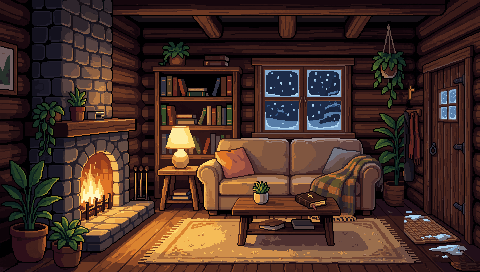
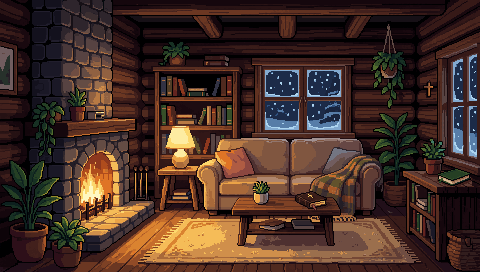
Entrance hall with the front door and a leaving cutscene; living room back to its original window and shelf (Bible on the table, green book on the shelf); bedroom wardrobe and plants instead of a door; Mochi stays off Waffles
Claude-Session: https://claude.ai/code/session_01MJHAbDc8GE5C3zMaFTW5Js

Changed region(s): [[0.8438, 0.1471, 1.0, 0.9706]]

diff --git a/src/scenes/cabin.js b/src/scenes/cabin.js
@@ -2,9 +2,7 @@
 'use strict';
 
 (function () {
-  const WINDOWS = [{ x: 265, y: 66, w: 78, h: 64 }, { x: 441, y: 89, w: 15, h: 30 }]; // big window + the pane in the front door
-  // the front door in the right wall: you come in (and go out) through it
-  const DOOR = { x: 430, y: 64, w: 41, h: 168, hinge: 471 };
+  const WINDOWS = [{ x: 265, y: 66, w: 78, h: 64 }, { x: 443, y: 58, w: 34, h: 104 }]; // big window + the tall side window
   const POS = {
     dog: { x: 120, y: 254 },  // Waffles on the rug in front of the fire
     cat: { x: 292, y: 134 },  // Mochi on the windowsill, watching the snow
@@ -13,9 +11,10 @@
   };
   // where Mochi can be in the living room, and the jumps between those spots
   // (cat spots, not the middle of the couch: the armrests, the corner of the couch back, the sill)
-  const CAT_SURF = { sill: [262, 336, 134], armL: [203, 209, 164], armR: [365, 371, 167], couchBack: [222, 232, 142], coffee: [318, 326, 200], shelf: [198, 234, 68], mat: [404, 428, 240], rug: [200, 300, 256] };
-  const CAT_LINKS = [['rug', 'armL'], ['armL', 'couchBack'], ['couchBack', 'sill'], ['couchBack', 'shelf'], ['rug', 'armR'], ['armR', 'sill'], ['rug', 'coffee'], ['rug', 'mat']];
+  const CAT_SURF = { sill: [262, 336, 134], armL: [203, 209, 164], armR: [365, 371, 167], couchBack: [222, 232, 142], coffee: [318, 326, 200], shelf: [198, 234, 68], shelfR: [416, 432, 172], rug: [212, 300, 256] }; // the rug starts past Waffles (120–184)
+  const CAT_LINKS = [['rug', 'armL'], ['armL', 'couchBack'], ['couchBack', 'sill'], ['couchBack', 'shelf'], ['rug', 'armR'], ['armR', 'sill'], ['rug', 'coffee'], ['armR', 'shelfR']];
   let mochi = null;
+  const dir = { t: 0, dur: 0 }; // (kept for the petting callbacks)
   let mode = 'room', sip = 0, sips = 0, drink = 'cocoa', steam = [], idleHint = 0;
 
   function bottomOf(anim, x, y) { const s = SE.animSize(anim); return { x: Math.round(x), y: Math.round(y - s.h), w: s.w, h: s.h }; }
@@ -86,85 +85,8 @@
     else SE.toast(auto ? 'A fresh log on the fire. Crackle, pop.' : 'The fire crackles happily.', '#ffe6b8');
     return true;
   }
-  function goOutside() {
-    if (SE.weather.stormy()) { SE.toast('Too stormy to go out. The fire and Mochi are right here.', '#cfe6ff'); return; }
-    if (doorT > 0) return;
-    SE.audio.sfx('door'); SE.audio.sfx('gust');
-    doorT = 1.5; doorOut = true;
-    setTimeout(() => { if (SE.sceneName === 'cabin') SE.go('yard'); }, 650);
-  }
-
-  // The door swings in on its hinge: cold daylight (or night) in the gap, a gust of snow across the mat.
-  let doorT = 0, doorOut = false;
-  const gust = [];
-  function drawDoor(ctx, dt) {
-    if (doorT <= 0) return;
-    doorT -= dt;
-    const k = doorT / 1.5;
-    const open = Math.sin(Math.min(1, (1 - k) * 2.2) * Math.PI / 2) * (doorOut ? 1 : Math.min(1, k * 2.2));
-    if (open < 0.02) return;
-    const n = SE.weather.night(), ang = open * Math.PI * 0.45;
-    // the leaf turns in on its hinge (right edge): seen ever more edge-on, its free edge nearer to us
-    const leafW = Math.max(4, Math.round(DOOR.w * Math.cos(ang) + 9 * Math.sin(ang)));
-    const gapR = DOOR.hinge - leafW;
-    if (gapR > DOOR.x) {
-      // through the gap: snowy yard, dark pines, falling snow (blue-black at night)
-      const gw = gapR - DOOR.x, gy = DOOR.y + DOOR.h * 0.62;
-      const sky = ctx.createLinearGradient(0, DOOR.y, 0, gy);
-      sky.addColorStop(0, n > 0.5 ? '#0e1230' : '#9fb0d6'); sky.addColorStop(1, n > 0.5 ? '#26305e' : '#dfe6f4');
-      ctx.fillStyle = sky; ctx.fillRect(DOOR.x, DOOR.y, gw, gy - DOOR.y);
-      ctx.fillStyle = n > 0.5 ? '#0c1a26' : '#2e4a4c';
-      for (let i = 0; i < 4; i++) {
-        const tx = DOOR.x + 4 + i * 11, th = 26 + (i % 2) * 14;
-        ctx.beginPath(); ctx.moveTo(tx, gy - th); ctx.lineTo(tx + 7, gy); ctx.lineTo(tx - 7, gy); ctx.fill();
-      }
-      const snow = ctx.createLinearGradient(0, gy, 0, DOOR.y + DOOR.h);
-      snow.addColorStop(0, n > 0.5 ? '#3a4680' : '#e8eef8'); snow.addColorStop(1, n > 0.5 ? '#5a66a0' : '#ffffff');
-      ctx.fillStyle = snow; ctx.fillRect(DOOR.x, gy, gw, DOOR.y + DOOR.h - gy);
-      ctx.fillStyle = 'rgba(255,255,255,0.85)';
-      for (let i = 0; i < 14; i++) {
-        const fx = DOOR.x + ((i * 37 + SE.time * 30) % gw), fy = DOOR.y + ((i * 53 + SE.time * 40) % DOOR.h);
-        ctx.fillRect(Math.round(fx), Math.round(fy), 1, 1);
-      }
-      ctx.fillStyle = '#1e120e'; ctx.fillRect(DOOR.x - 1, DOOR.y, 1, DOOR.h); // the frame edge
-    }
-    // the leaf itself: the painted door, squeezed toward the hinge and a touch taller at its free edge
-    const img = SE.img('bg_living');
-    if (img) {
-      const grow = Math.round(6 * Math.sin(ang));
-      ctx.drawImage(img, DOOR.x, DOOR.y, DOOR.w, DOOR.h, gapR, DOOR.y - grow, leafW, DOOR.h + grow * 2);
-      ctx.fillStyle = `rgba(20,10,8,${0.35 * Math.sin(ang)})`; ctx.fillRect(gapR, DOOR.y - grow, leafW, DOOR.h + grow * 2);
-    }
-    // cold light spilling across the floor, and snow blowing in
-    ctx.save(); ctx.globalCompositeOperation = 'lighter';
-    ctx.fillStyle = `rgba(150,180,230,${(n > 0.5 ? 0.08 : 0.2) * open})`;
-    ctx.beginPath(); ctx.moveTo(DOOR.x, DOOR.y + DOOR.h); ctx.lineTo(gapR, DOOR.y + DOOR.h); ctx.lineTo(gapR - 30, SE.H); ctx.lineTo(DOOR.x - 80, SE.H); ctx.fill();
-    ctx.restore();
-    if (gapR > DOOR.x && Math.random() < dt * 40 * open) gust.push({ x: DOOR.x + Math.random() * (gapR - DOOR.x), y: DOOR.y + 20 + Math.random() * (DOOR.h - 30), vx: -SE.rand(40, 90), vy: SE.rand(5, 25), t: 0 });
-  }
-  function drawGust(ctx, dt) {
-    for (let i = gust.length - 1; i >= 0; i--) {
-      const f = gust[i]; f.t += dt; f.x += f.vx * dt; f.y += f.vy * dt; f.vx *= 0.97;
-      if (f.t > 1.2) { gust.splice(i, 1); continue; }
-      ctx.fillStyle = `rgba(255,255,255,${0.9 * (1 - f.t / 1.2)})`; ctx.fillRect(Math.round(f.x), Math.round(f.y), 1, 1);
-    }
-  }
-
-  // Watch mode: a gentle director cycles couch → pets → couch, each time a little different.
-  const dir = { t: 0, dur: 0, last: null };
-  function direct(dt) {
-    dir.t += dt;
-    if (mode === 'busy' || SE.momentPlaying()) return;
-    if (SE.save.fire < 0.4 && SE.save.wood > 0 && (dir.fireT = (dir.fireT || 0) + dt) > 3) { dir.fireT = 0; addLog(true); }
-    if (dir.t < dir.dur) return;
-    const options = ['couch', 'couch', 'petDog', 'petCat', 'room', 'bible'].filter((m) => m !== dir.last && m !== mode);
-    const next = SE.pick(options);
-    dir.last = next; dir.t = 0;
-    if (next === 'couch') { sitDown(true); dir.dur = SE.rand(35, 55); }
-    else if (next === 'room') { mode = 'room'; dir.dur = SE.rand(12, 20); }
-    else if (next === 'bible') { readBible(); dir.dur = 999; }
-    else { startPet(next === 'petDog' ? 'dog' : 'cat'); dir.dur = 999; }
-  }
+  // the front door is in the entrance hall now
+  function goOutside() { SE.go('hall', {}); }
 
   SE.addScene('cabin', {
     enter(p) {
@@ -176,7 +98,6 @@
       SE.audio.woodSteps(p.arrived || p.from === 'yard' || p.inDoor ? 2 : 3);
       if (p.arrived) SE.toast('Home. Mochi was waiting by the door.', '#ffe6b8');
       // coming in from outside: the front door is still swinging shut behind you
-      if (p.arrived || p.from === 'yard' || p.inDoor) { doorT = 1.5; doorOut = false; gust.length = 0; setTimeout(() => SE.audio.sfx('latch'), 1100); }
       // the first time in the cabin after dark each day, he lights the lantern (a little moment)
       if (SE.weather.night() > 0.5 && SE.save.lanternDay !== SE.save.day) { SE.save.lanternDay = SE.save.day; SE.persist(); setTimeout(() => { if (SE.sceneName === 'cabin') SE.moment('lantern'); }, 700); }
     },
@@ -189,16 +110,13 @@
       SE.drawImg('bg_living', 0, 0);
       if (mode === 'couch') drawCouchArt(ctx);
       SE.weather.windows(ctx, WINDOWS);
-      drawDoor(ctx, dt);
       // Waffles and Mochi are part of the room: drawn before the night falls over it, so after dark
       // they sink into the dusk like the furniture and only the firelight picks them out
       const dogR = SE.drawDogRest(POS.dog.x, POS.dog.y, {});
       let catR = null;
       if (mode !== 'couch' && mochi) { mochi.update(dt); catR = mochi.draw(); }
       SE.weather.interior(ctx);
-      drawGust(ctx, dt);
       if (mode === 'room' && !SE.watching() && hotspot(BIBLE, 'Read the Bible')) readBible();
-      if (mode === 'room' && !SE.watching() && doorT <= 0 && hotspot(DOOR, SE.weather.stormy() ? 'The storm howls outside' : 'Step outside')) goOutside();
 
       // fire (its size follows the fire level) + lamps that matter more at night
       const fire = SE.save.fire, night = SE.weather.night();
@@ -234,7 +152,7 @@
           ['Read the Bible', 78, readBible],
           ['Kitchen', 52, () => SE.go('kitchen')],
           ['Bedroom', 52, () => SE.go('bedroom')],
-          ['Step outside', 70, goOutside],
+          ['Entrance', 56, goOutside],
         ];
         let x = SE.W - 6 - items.reduce((s, i) => s + i[1] + 4, 0);
         for (const [label, w, cb] of items) { if (SE.button(x, by, w, 18, label, { alpha: a })) cb(); x += w + 4; }

diff --git a/src/scenes/hall.js b/src/scenes/hall.js
@@ -1,0 +1,47 @@
+// The entrance hall: the one room with the front door. Coat and beanie on the hooks, boots on the
+// mat, the lantern by the door. Coming home you stamp the snow off in here; going out is a little
+// cutscene: coat on, boots on, the door opens and Waffles is first out into the snow.
+'use strict';
+
+(function () {
+  const WINDOWS = [{ x: 60, y: 16, w: 76, h: 86 }]; // the frosty pane in the front door
+  let s = null;
+
+  SE.MOMENTS.leaveHome = [
+    { img: 'cut/leave_coat', dur: 4.4, text: 'Coat on, beanie on. Boots laced tight.', pan: 1, sounds: [[0.4, 'rustle'], [1.6, 'rustle'], [2.8, 'wood'], [3.4, 'wood']] },
+    { img: 'cut/leave_door', dur: 4.2, text: 'The door, the cold, the light — and Waffles is out first.', pan: -1, sounds: [[0.2, 'creak'], [0.9, 'gust'], [1.6, 'woof'], [2.6, 'step'], [3.1, 'step']] },
+  ];
+
+  function goOut() {
+    if (SE.weather.stormy()) { SE.toast('Too stormy to go out. The fire and Mochi are right here.', '#cfe6ff'); return; }
+    s.busy = true;
+    SE.moment('leaveHome', { force: true, go: ['yard', {}] });
+  }
+
+  SE.addScene('hall', {
+    enter(p) {
+      SE.save.location = 'cabin';
+      SE.persist();
+      s = { t: 0, busy: false };
+      SE.audio.setMusic('cabin');
+      if (!p.fromOutside) SE.audio.woodSteps(3);
+    },
+    update() {
+      SE.audio.setAmbience({ fire: 0.1, wind: 0.4 + SE.weather.wind / 70, storm: SE.weather.stormy() ? 0.7 : 0, muffled: true });
+    },
+    draw(ctx, dt) {
+      s.t += dt;
+      SE.drawImg('bg_hall', 0, 0);
+      SE.weather.windows(ctx, WINDOWS);
+      SE.weather.interior(ctx);
+      const night = SE.weather.night(), fl = 0.85 + 0.1 * Math.sin(SE.time * 7) + 0.05 * Math.random();
+      SE.glow(ctx, 408, 40, 46 * fl, '255,180,100', (0.1 + night * 0.2) * fl); // the lantern by the door
+      if (!s.busy && !SE.momentPlaying() && !SE.watching()) {
+        const a = SE.uiAlpha == null ? 1 : SE.uiAlpha;
+        if (SE.button(SE.W - 86, SE.H - 46, 80, 18, 'Step outside', { alpha: a })) goOut();
+        if (SE.button(SE.W - 86, SE.H - 24, 80, 18, 'Living room', { alpha: a })) SE.go('cabin', {});
+      }
+      SE.hud.draw(ctx, { title: 'Entrance', subtitle: SE.weather.stormy() ? 'the storm rattles the door' : 'coat, boots, the door', map: false });
+    },
+  });
+})();

diff --git a/src/scenes/yard.js b/src/scenes/yard.js
@@ -52,7 +52,7 @@
       if (SE.weather.stormy() && s.t > 2 && !s.leaving) {
         s.leaving = true;
         SE.toast('The storm is too strong — back inside you go!', '#cfe6ff');
-        setTimeout(() => { if (SE.sceneName === 'yard') SE.go('cabin', { inDoor: true }); }, 1600);
+        setTimeout(() => { if (SE.sceneName === 'yard') SE.go('hall', { fromOutside: true }); }, 1600);
       }
       // just watching: he stays put in the yard
       if (mode === 'rock') { drawRock(ctx, dt); SE.hud.draw(ctx, { title: 'The rocking chair', subtitle: 'creak… creak…', map: false }); return; }
@@ -139,7 +139,7 @@
     const a = SE.uiAlpha == null ? 1 : SE.uiAlpha;
     if (SE.watching() || mode === 'busy' || SE.momentPlaying()) return;
     const items = mode === 'yard'
-      ? [['Chop wood', 62, () => SE.go('woodlot')], ['Shovel snow', 70, shovel], ['Rocking chair', 74, porch], ['Go inside', 58, () => SE.moment('home', { go: ['cabin', { inDoor: true }] })], ['Wander off', 64, leave]]
+      ? [['Chop wood', 62, () => SE.go('woodlot')], ['Shovel snow', 70, shovel], ['Rocking chair', 74, porch], ['Go inside', 58, () => SE.moment('home', { go: ['hall', { fromOutside: true }] })], ['Wander off', 64, leave]]
       : [];
     // a column on the right, so the woodpile and Waffles stay visible along the bottom
     let y = SE.H - 6 - items.length * 20;

diff --git a/src/main.js b/src/main.js
@@ -14,7 +14,7 @@
     'cut/stack', 'cut/carry_in', 'cut/fire_lay', 'cut/fire_light', 'cut/bible_read', 'cut/music', 'cut/sleep', 'cut/pocket',
     'cut/pet_dog1', 'cut/pet_dog2', 'cut/pet_dog3', 'cut/pet_cat1', 'cut/pet_cat2', 'cut/pet_cat3',
     'lake_hands', 'props/woodpile', 'snow/heap_big', 'snow/heap_small', 'smoke/p0', 'smoke/p1', 'smoke/p2', 'smoke/p3', 'smoke/p4',
-    'world_ground', 'map/pine', 'map/spruce', 'map/cabin_td', 'map/mountain_td', 'map/chop_td', 'map/fishing_td', 'map/chapel_td', 'bg_chapel', 'bg_woodlot', 'bg_bedroom', 'ui/notebook', 'ui/kit', 'couch_scene', 'props/kitchen_unlit', 'lit/bg_cabin', 'lit/cabin_td', 'lit/chapel_td', 'bg_forest_dim']
+    'world_ground', 'map/pine', 'map/spruce', 'map/cabin_td', 'map/mountain_td', 'map/chop_td', 'map/fishing_td', 'map/chapel_td', 'bg_chapel', 'bg_woodlot', 'bg_bedroom', 'ui/notebook', 'ui/kit', 'couch_scene', 'props/kitchen_unlit', 'bg_hall', 'cut/leave_coat', 'cut/leave_door', 'lit/bg_cabin', 'lit/cabin_td', 'lit/chapel_td', 'bg_forest_dim']
     .concat(M.images, Object.keys(M.anims))
     // each cutscene still in its other weathers and times of day (src/moments.js)
     .concat(...Object.entries(SE.CUT_VARIANTS || {}).map(([n, vs]) => vs.map((v) => `cut/${n}_${v}`)))

diff --git a/src/moments.js b/src/moments.js
@@ -146,7 +146,7 @@
   const BASE = {
     alert: 'day', chop: 'day', lake: 'day', trail: 'day', forest: 'day', summit: 'day', porch: 'day',
     shovel: 'snow', shovel2: 'snow', shovel3: 'snow', porch2: 'day', climb1: 'day', climb2: 'day', camera: 'day', sketch: 'day',
-    leave: 'night', chapel: 'night', home: 'night', pray: 'night', lantern: 'night',
+    leave: 'night', leave_door: 'night', leave_coat: 'day', chapel: 'night', home: 'night', pray: 'night', lantern: 'night',
   };
   SE.CUT_VARIANTS = {
     alert: ['snow', 'storm', 'night'], chop: ['snow', 'storm', 'night'], lake: ['snow', 'storm', 'night'],
@@ -156,7 +156,7 @@
   };
   // Stills that happen indoors only change between day and night (lamplight stays warm either way);
   // everything else is outdoors and also gets the live snowfall of the current weather on top.
-  const INDOOR = /^(cut\/(home|lantern|pray|cocoa|pet_|eat|cook|bible|treat|music|sleep|wake|fire_)|kitchen_)/;
+  const INDOOR = /^(cut\/(home|lantern|pray|cocoa|pet_|eat|cook|bible|treat|music|sleep|wake|fire_|leave_)|kitchen_)/;
   SE.stillIndoor = (img) => INDOOR.test(img);
   function wanted(img) {
     const W = SE.weather;

diff --git a/src/scenes/title.js b/src/scenes/title.js
@@ -6,7 +6,7 @@
   const WINDOWS = [{ x: 186, y: 175, r: 20 }, { x: 277, y: 176, r: 20 }, { x: 230, y: 118, r: 16 }, { x: 356, y: 183, r: 18 }, { x: 256, y: 171, r: 9 }];
   let menu = 'main', confirmT = 0;
   // where a saved journey picks up again
-  const RESUME = { cabin: 'cabin', woodlot: 'woodlot', lake: 'lake', forest: 'forest', summit: 'summit', trail: 'map', chapel: 'chapel' };
+  const RESUME = { hall: 'hall', cabin: 'cabin', woodlot: 'woodlot', lake: 'lake', forest: 'forest', summit: 'summit', trail: 'map', chapel: 'chapel' };
   const hasJourney = () => !!SE.hadSave && (SE.save.day > 1 || SE.save.distance > 0 || SE.save.cooked > 0 || SE.save.logs > 0 || SE.fishCount() > 0 || SE.save.prayers > 0);
   function start(scene, params) { SE.audio.unlock(); SE.audio.sfx('door'); menu = 'main'; SE.go(scene, params || {}); }
 

diff --git a/src/scenes/bedroom.js b/src/scenes/bedroom.js
@@ -5,7 +5,7 @@
 
 (function () {
   const WINDOW = [{ x: 238, y: 54, w: 92, h: 70 }];
-  const BED_SURF = { quilt: [190, 290, 162], chest: [298, 334, 152], rug: [150, 330, 262] };
+  const BED_SURF = { quilt: [190, 290, 162], chest: [298, 334, 152], rug: [302, 350, 262] }; // the rug right of Waffles (he sleeps at 214–278)
   const BED_LINKS = [['rug', 'quilt'], ['quilt', 'chest'], ['rug', 'chest']];
   let mochi = null, busy = false;
 

diff --git a/index.html b/index.html
@@ -40,6 +40,7 @@
   <script src="src/scenes/travel.js"></script>
   <script src="src/scenes/cabin.js"></script>
   <script src="src/scenes/bedroom.js"></script>
+  <script src="src/scenes/hall.js"></script>
   <script src="src/scenes/kitchen.js"></script>
   <script src="src/scenes/lake.js"></script>
   <script src="src/scenes/forest.js"></script>

diff --git a/docs/PROGRESS.md b/docs/PROGRESS.md
@@ -148,3 +148,6 @@
 - Text: small text now uses bitmap pixel fonts at their native 10px (Tiny5; Micro 5 for size-6 notes) — Pixelify Sans at 8px blurred B/G together and fused "fi" into an "A" ("Arewood"). Headings ≥12px stay Pixelify. A zero-width non-joiner also keeps f+i/l apart.
 - Fewer hearts: none on banners or celebration bursts (sparkles only), none on buttons, rare when stroking Mochi. New ElevenLabs reward jingle (sfx_jingle: soft music box and bells).
 - Mochi v5: every existing animation (walk ×4, sit, jump ×2, loaf ×2 — 74 frames) upscaled 1.5× and reskinned with PixelLab transfer_outfit to match her cutscenes: a chunky, fluffy grey tabby with dark stripes, white chest, muzzle and paws (~36px instead of ~25px). Same poses and timing.
+- Entrance hall (src/scenes/hall.js, bg_hall: PixelLab redraw of the cut/home still at full room size, cat removed): the only room with the front door. "Step outside" plays leaveHome (cut/leave_coat: coat on by the hooks; cut/leave_door: the door open, Waffles out first) → yard. Coming in (yard "Go inside", storms) plays the home still and lands in the hall.
+- Living room back to its original right side (tall window, low bookshelf; the door is gone), with the single mantel lamp, the Bible on the coffee table and the green book now on the low shelf (PixelLab inpaint). Mochi's doormat spot became the low shelf top.
+- Bedroom: the door is painted out — a built-in wardrobe and two potted plants instead, no coat rack. Mochi's rug spots no longer overlap Waffles (bedroom and living room).
